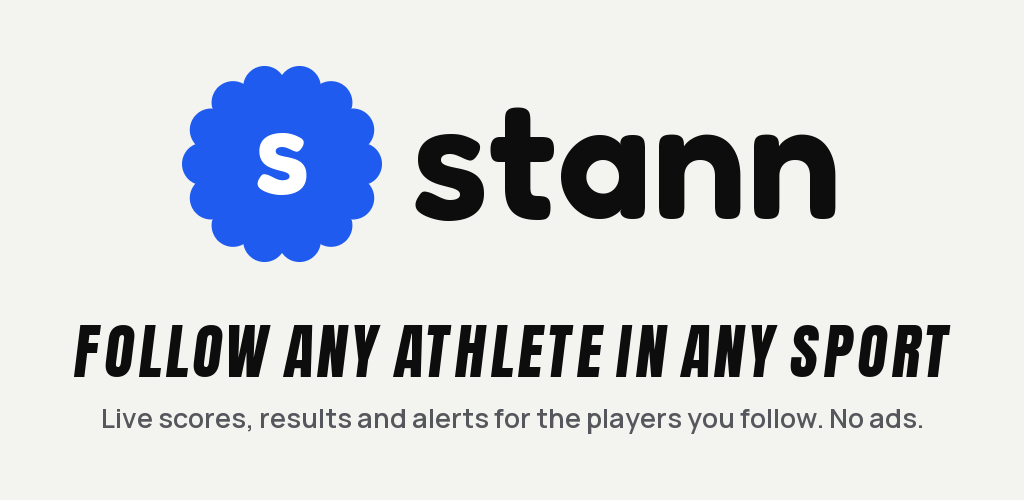
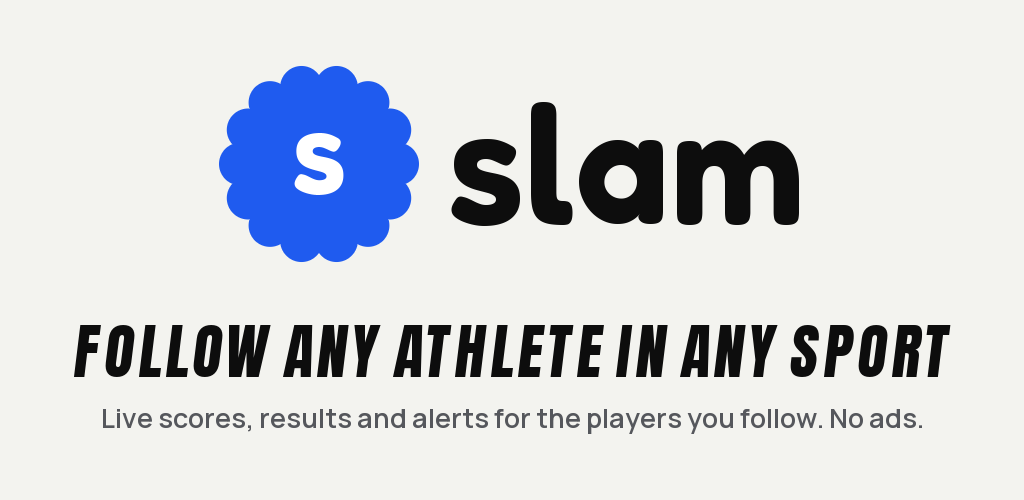
Google Play: the listing is for Slam, io.slam.app, and the upload key's variables name no app
The store name is "Slam: live alerts for players" (29 of Play's 30 characters), so search tells it apart from
SLAM Media's "SLAM.", WWE SLAM and the slambook apps; the description, the testers' group and message, and the
Console steps say Slam, and the Console's app (created as stann) takes the listing's name. The feature graphic
draws the name from sports_follow/app.json in the logo's lower case. The upload key's variables are
SPORTS_FOLLOW_UPLOAD_*, as the project's other settings are, so the next rename leaves them alone. The
addresses stay stann.in's until the new domain is bought.

Part of BHA-348
Part of BHA-294

Changed region(s): [[0.1562, 0.12, 0.8438, 0.54]]

diff --git a/mobile/plugins/with-upload-key.js b/mobile/plugins/with-upload-key.js
@@ -1,19 +1,20 @@
 // The Play upload key (store/release-build.md). Expo's template signs release builds with the debug key, and
 // android/ is generated (CLAUDE.md), so the change is made here at each prebuild: when the build has the key,
-// STANN_UPLOAD_KEYSTORE naming the keystore file (never in the repo: ~/.config/sports-follow/upload-key.jks),
-// STANN_UPLOAD_KEYSTORE_PASSWORD its password and STANN_UPLOAD_KEY_ALIAS its key ("upload" unless set, with the
-// keystore's password unless STANN_UPLOAD_KEY_PASSWORD gives another), a release build is signed with it.
+// SPORTS_FOLLOW_UPLOAD_KEYSTORE naming the keystore file (never in the repo:
+// ~/.config/sports-follow/upload-key.jks), SPORTS_FOLLOW_UPLOAD_KEYSTORE_PASSWORD its password and
+// SPORTS_FOLLOW_UPLOAD_KEY_ALIAS its key ("upload" unless set, with the keystore's password unless
+// SPORTS_FOLLOW_UPLOAD_KEY_PASSWORD gives another), a release build is signed with it.
 // Without it a release build stays on the debug key, as before, so `npm run android` and CI need nothing.
 const { withAppBuildGradle } = require('expo/config-plugins')
 
 const RELEASE_SIGNING = `        release {
             // The Play upload key, when the build has it (plugins/with-upload-key.js, store/release-build.md).
-            def uploadKeystore = System.getenv("STANN_UPLOAD_KEYSTORE")
+            def uploadKeystore = System.getenv("SPORTS_FOLLOW_UPLOAD_KEYSTORE")
             if (uploadKeystore) {
                 storeFile file(uploadKeystore)
-                storePassword System.getenv("STANN_UPLOAD_KEYSTORE_PASSWORD")
-                keyAlias System.getenv("STANN_UPLOAD_KEY_ALIAS") ?: "upload"
-                keyPassword System.getenv("STANN_UPLOAD_KEY_PASSWORD") ?: System.getenv("STANN_UPLOAD_KEYSTORE_PASSWORD")
+                storePassword System.getenv("SPORTS_FOLLOW_UPLOAD_KEYSTORE_PASSWORD")
+                keyAlias System.getenv("SPORTS_FOLLOW_UPLOAD_KEY_ALIAS") ?: "upload"
+                keyPassword System.getenv("SPORTS_FOLLOW_UPLOAD_KEY_PASSWORD") ?: System.getenv("SPORTS_FOLLOW_UPLOAD_KEYSTORE_PASSWORD")
             }
         }
 `
@@ -25,11 +26,11 @@ const RELEASE_ON_DEBUG_KEY = /(release \{\n(?:\s*\/\/.*\n)*\s+)signingConfig sig
 module.exports = (config) =>
   withAppBuildGradle(config, (mod) => {
     let gradle = mod.modResults.contents
-    if (!gradle.includes('STANN_UPLOAD_KEYSTORE')) {
+    if (!gradle.includes('SPORTS_FOLLOW_UPLOAD_KEYSTORE')) {
       if (!DEBUG_SIGNING.test(gradle)) throw new Error('with-upload-key: no signingConfigs.debug in android/app/build.gradle; Expo\'s template changed')
       if (!RELEASE_ON_DEBUG_KEY.test(gradle)) throw new Error('with-upload-key: the release build type is not on signingConfigs.debug; Expo\'s template changed')
       gradle = gradle.replace(DEBUG_SIGNING, (debug) => debug + RELEASE_SIGNING)
-      gradle = gradle.replace(RELEASE_ON_DEBUG_KEY, '$1signingConfig System.getenv("STANN_UPLOAD_KEYSTORE") ? signingConfigs.release : signingConfigs.debug\n')
+      gradle = gradle.replace(RELEASE_ON_DEBUG_KEY, '$1signingConfig System.getenv("SPORTS_FOLLOW_UPLOAD_KEYSTORE") ? signingConfigs.release : signingConfigs.debug\n')
       mod.modResults.contents = gradle
     }
     return mod

diff --git a/mobile/store/make_graphics.py b/mobile/store/make_graphics.py
@@ -1,9 +1,9 @@
 """Draw the Play Store's graphics from the app's own assets, and fit screenshots to Play's rules.
 
-- icon-512.png: the store icon, stann's badge on a full paper square (Play rounds the corners itself), a
+- icon-512.png: the store icon, the app's badge on a full paper square (Play rounds the corners itself), a
   32-bit PNG as Play asks, opaque. The same picture as web/public/icons/maskable-512.png, drawn by
   web/scripts/make_icons.py's rasterizer.
-- feature-1024x500.png: the feature graphic, the badge and "stann" (Fredoka, as in the header), the site's
+- feature-1024x500.png: the feature graphic, the badge and the name (Fredoka, lower case, as in the header), the site's
   one-line pitch in the leaning display type (Anton, the app's own slanted copy) and a line of Manrope.
   24-bit PNG with no alpha, as Play asks.
 - screenshots/: with --screenshots DIR, every PNG or JPEG in DIR made opaque and brought within Play's limit
@@ -15,13 +15,14 @@ Run from the repo root with its venv (Pillow is in requirements.txt), after `npm
 (the fonts come from node_modules/@expo-google-fonts):
 
     python mobile/store/make_graphics.py
-    python mobile/store/make_graphics.py --screenshots ~/Desktop/stann-shots
+    python mobile/store/make_graphics.py --screenshots ~/Desktop/slam-shots
 """
 
 from __future__ import annotations
 
 import argparse
 import io
+import json
 import sys
 from pathlib import Path
 
@@ -41,6 +42,8 @@ FREDOKA = FONTS / "fredoka" / "600SemiBold" / "Fredoka_600SemiBold.ttf"  # the l
 MANROPE = FONTS / "manrope" / "600SemiBold" / "Manrope_600SemiBold.ttf"  # body text
 ANTON_SLANTED = MOBILE / "assets" / "fonts" / "AntonSlanted.ttf"  # the display type's lean, as the app draws it
 
+# The name as the logo writes it: sports_follow/app.json's, in lower case (styles.css .brand).
+NAME = json.loads((ROOT / "sports_follow" / "app.json").read_text(encoding="utf-8"))["name"].lower()
 PITCH = "Follow any athlete in any sport"  # web/index.html's description, its first clause
 LINE = "Live scores, results and alerts for the players you follow. No ads."
 
@@ -77,16 +80,16 @@ def feature() -> Path:
     # Row 1: the badge and the name, as the header pairs them (.brand: the badge 1.2 times the type's size).
     name_font = ImageFont.truetype(str(FREDOKA), 168)
     mark = badge(200)
-    name_w = name_font.getlength("stann")
+    name_w = name_font.getlength(NAME)
     gap = 28
     row_w = mark.width + gap + name_w
     x = (width - row_w) / 2
     top = 64
     im.paste(mark, (round(x), top), mark)
     # Fredoka's x-height sits low in its box: align the word's visual middle with the badge's centre.
-    _, name_top, _, name_bottom = name_font.getbbox("stann")
+    _, name_top, _, name_bottom = name_font.getbbox(NAME)
     name_y = top + mark.height / 2 - (name_top + name_bottom) / 2
-    draw.text((x + mark.width + gap, name_y), "stann", font=name_font, fill=INK)
+    draw.text((x + mark.width + gap, name_y), NAME, font=name_font, fill=INK)
 
     # Row 2: the pitch, in the leaning display type, upper case as .dsp sets it.
     pitch_font = fitted(ANTON_SLANTED, PITCH.upper(), 60, width - 120)

diff --git a/mobile/store/release-build.md b/mobile/store/release-build.md
@@ -15,7 +15,7 @@ The keystore lives with the other local secrets, in `~/.config/sports-follow/`, 
 
 ```bash
 export JAVA_HOME=~/.local/jdk-17/Contents/Home
-"$JAVA_HOME/bin/keytool" -genkeypair -v -keystore ~/.config/sports-follow/upload-key.jks -alias upload -keyalg RSA -keysize 2048 -validity 10000 -dname "CN=stann, O=stann, C=IN"
+"$JAVA_HOME/bin/keytool" -genkeypair -v -keystore ~/.config/sports-follow/upload-key.jks -alias upload -keyalg RSA -keysize 2048 -validity 10000 -dname "CN=Slam, O=Slam, C=IN"
 ```
 
 It asks for a keystore password; use the same for the key (press Enter when it asks for the key's). Then:
@@ -41,7 +41,7 @@ Its fingerprint, for the server's App Links setting (`SPORTS_FOLLOW_ANDROID_CERT
    version fans should see, `version`. One place for each; nothing else to edit.
 2. **Build.** From `mobile/`, with the app's Firebase file (notifications). The config plugin
    `plugins/with-upload-key.js` writes a release signing config at prebuild that Gradle reads from the environment
-   when it runs: `STANN_UPLOAD_KEYSTORE` set, the upload key; unset, the debug key, as Expo's template leaves it.
+   when it runs: `SPORTS_FOLLOW_UPLOAD_KEYSTORE` set, the upload key; unset, the debug key, as Expo's template leaves it.
    The password goes to the Gradle command alone, not into the shell, so it isn't in the history or in a
    long-lived daemon's environment.
 
@@ -50,15 +50,15 @@ Its fingerprint, for the server's App Links setting (`SPORTS_FOLLOW_ANDROID_CERT
    export JAVA_HOME=~/.local/jdk-17/Contents/Home ANDROID_HOME=~/.local/android-sdk
    export GOOGLE_SERVICES_JSON=~/.config/sports-follow/google-services.json
    npx expo prebuild --platform android --clean
-   (cd android && STANN_UPLOAD_KEYSTORE=~/.config/sports-follow/upload-key.jks STANN_UPLOAD_KEYSTORE_PASSWORD="$(cat ~/.config/sports-follow/upload-key.password)" ./gradlew --no-daemon :app:bundleRelease)
+   (cd android && SPORTS_FOLLOW_UPLOAD_KEYSTORE=~/.config/sports-follow/upload-key.jks SPORTS_FOLLOW_UPLOAD_KEYSTORE_PASSWORD="$(cat ~/.config/sports-follow/upload-key.password)" ./gradlew --no-daemon :app:bundleRelease)
    ```
 
    The bundle is `mobile/android/app/build/outputs/bundle/release/app-release.aab`. `--clean` regenerates
    `android/` from `app.config.ts`, so the version, the plugin's signing and the App Links routes are the
    config's; `npm run android` afterwards is unaffected (debug builds keep the debug key).
 
-   Variables: `STANN_UPLOAD_KEY_ALIAS` if the key isn't `upload`; `STANN_UPLOAD_KEY_PASSWORD` if the key's
-   password differs from the keystore's.
+   Variables: `SPORTS_FOLLOW_UPLOAD_KEY_ALIAS` if the key isn't `upload`; `SPORTS_FOLLOW_UPLOAD_KEY_PASSWORD` if
+   the key's password differs from the keystore's.
 3. **Check it** before uploading: it's signed by the upload key, and it's the version you meant.
 
    ```bash
@@ -66,7 +66,7 @@ Its fingerprint, for the server's App Links setting (`SPORTS_FOLLOW_ANDROID_CERT
    "$JAVA_HOME/bin/keytool" -printcert -jarfile android/app/build/outputs/bundle/release/app-release.aab | grep SHA256
    ```
 
-   The second fingerprint must equal the keystore's (above). The debug key's would mean `STANN_UPLOAD_KEYSTORE`
+   The second fingerprint must equal the keystore's (above). The debug key's would mean `SPORTS_FOLLOW_UPLOAD_KEYSTORE`
    wasn't set on the Gradle command.
 4. **Upload** in Play Console, **Testing → Closed testing → (track) → Create new release**, drop the
    `.aab`, write a short release note, roll out. The first upload is where Play asks to turn on Play App

diff --git a/mobile/store/listing.md b/mobile/store/listing.md
@@ -8,7 +8,7 @@ in its voice: short, plain sentences, no claims the app doesn't keep.
 
 | Field | Value | Limit |
 |---|---|---|
-| App name | `stann` | 30 |
+| App name | `Slam: live alerts for players` | 30 (this is 29) |
 | Short description | `Follow any athlete, any sport: live scores, results and alerts for your players.` | 80 (this is exactly 80) |
 | Full description | below | 4,000 |
 | App category | Application → **Sports** | |
@@ -18,7 +18,13 @@ in its voice: short, plain sentences, no claims the app doesn't keep.
 | Privacy policy (App content) | `https://stann.in/privacy` | |
 | Account deletion (App content) | `https://stann.in/account` (sign in, then Delete account) | |
 
-Google shows the name and short description as typed: keep "stann" lower case, as fans see it everywhere.
+The app is Slam (`sports_follow/app.json`: the launcher, every page, the emails), so the store name starts with it
+and says what the app is, for search to tell it apart from the other SLAMs on Play: SLAM Media's basketball
+magazine app "SLAM.", WWE SLAM, Slam Stars, Slam Fitness and the slambook apps. "Slam: live alerts for your
+players" is 34 characters, over Play's 30. Google shows the name and short description as typed.
+
+The addresses are stann.in's until the new domain is bought (BHA-348). They can change in the Console at any
+time, unlike the package: change them here and there together.
 
 **Never the word "news"** in the name, either description, the tags or a What's new note. Bharath answered No
 to the News app declaration (19 Oct 2026), and Google rejects a listing that calls itself news while declaring
@@ -27,7 +33,7 @@ it isn't. Say alerts, moments, live scores, updates or follow instead.
 ## Full description
 
 ```
-stann follows the athletes you care about, in any sport: football, cricket, tennis, basketball, chess and esports. Pick a player and their games come to you.
+Slam follows the athletes you care about, in any sport: football, cricket, tennis, basketball, chess and esports. Pick a player and their games come to you.
 
 Your players first
 Today opens on your players' live games, then their results and what's coming up. Follow a team and its games come too. Follow one match for its moments alone, until it ends.
@@ -50,7 +56,7 @@ Everything works without an account. Sign in with an email code and your players
 No ads. No selling your data. Read the policy at stann.in/privacy.
 ```
 
-That text is 1,144 characters. Play keeps line breaks; it ignores Markdown, so the headings are plain lines.
+That text is 1,143 characters. Play keeps line breaks; it ignores Markdown, so the headings are plain lines.
 
 Before pasting, check the sports named in the first line against what production has turned on (the admin
 panel's sports, BHA-207 for PUBG): the listing must not promise a sport that's off. Esports titles are left

diff --git a/mobile/store/README.md b/mobile/store/README.md
@@ -1,6 +1,6 @@
 # Google Play: what the Console asks for
 
-Everything the first upload of the stann Android app (`io.stann.app`) needs, ready to paste or run, so the
+Everything the first upload of the Slam Android app (`io.slam.app`) needs, ready to paste or run, so the
 closed-testing release can go up the day the developer account is verified. Linear: BHA-8 (the epic), with
 BHA-25 (upload key), BHA-26 (the account), BHA-39 (the closed test) and BHA-168 (data safety) under it.
 
@@ -22,14 +22,15 @@ folder.
 Each step is Bharath's: the Console is his account.
 
 1. **Create the app**: done 19 Oct 2026 as `stann`, app, free (which Play never lets change), default language
-   English.
+   English. Its name is the store listing's, which can change until the app is published: make it
+   `listing.md`'s (BHA-348). The package isn't set until the first upload, which makes it `io.slam.app` for good.
 2. **Set up your app** (the Dashboard's checklist): privacy policy, app access, ads, content rating, target
    audience, news app, data safety (`data-safety.md`), government app, financial features, health, account
    deletion. `listing.md` has every answer.
 3. **Main store listing**: the text from `listing.md`, `icon-512.png`, `feature-1024x500.png`, the
    screenshots (`graphics.md`).
 4. **Upload key**, once (`release-build.md`), then the build, then **Testing → Closed testing**: a track
-   ("stann testers"), the `.aab`, the testers' Google Group (`closed-testing.md`), roll out. Google reviews
+   ("Slam testers"), the `.aab`, the testers' Google Group (`closed-testing.md`), roll out. Google reviews
    closed-testing releases too; a day or three.
 5. **Setup → App integrity**: copy the app signing key's SHA-256 into the server's
    `SPORTS_FOLLOW_ANDROID_CERT_SHA256` with the upload key's (App Links).

diff --git a/mobile/store/closed-testing.md b/mobile/store/closed-testing.md
@@ -33,7 +33,7 @@ Play App Signing and App Links working, which is the dress rehearsal (BHA-244) o
 ## Where the 12 testers come from
 
 Testers are Google accounts. Give Play either a list of email addresses or a Google Group; a **Google Group**
-is easier (`stann-testers@googlegroups.com`: add a person, they're a tester; Google counts opted-in members).
+is easier (`slam-testers@googlegroups.com`: add a person, they're a tester; Google counts opted-in members).
 
 - **Family and friends with Android phones**: the surest dozen. Ask for 15, since a few won't finish the opt-in.
 - **The people already testing the vivo builds** and anyone who has installed stann.in from Chrome.
@@ -51,14 +51,14 @@ counts as engagement.
 ## The message to send (WhatsApp)
 
 ```
-Hi! I've built an app called stann: follow any athlete, in any sport, and get an alert the moment they do something (a goal, a wicket, Gukesh winning). It's on stann.in today, and the Android app is going on the Play Store.
+Hi! I've built an app called Slam: follow any athlete, in any sport, and get an alert the moment they do something (a goal, a wicket, Gukesh winning). It's on stann.in today, and the Android app is going on the Play Store.
 
 Google needs 12 people to test it for two weeks before it can go public. Could you be one?
 
 It takes two minutes:
 1. Join the testers group: <group link>
 2. Open <opt-in link> and tap "Become a tester" (same Google account as your phone).
-3. Install stann from the Play link on that page.
+3. Install Slam from the Play link on that page.
 4. Keep it installed for two weeks, follow a player or two, and tell me anything that looks wrong.
 
 No ads, no selling data, and if you sign in you can delete everything from Account at any time. Thanks!

diff --git a/mobile/store/graphics.md b/mobile/store/graphics.md
@@ -14,7 +14,7 @@ comes from. `make_graphics.py` draws the first two from the app's own assets and
 
 ```bash
 python mobile/store/make_graphics.py                       # icon and feature graphic
-python mobile/store/make_graphics.py --screenshots ~/Desktop/stann-shots
+python mobile/store/make_graphics.py --screenshots ~/Desktop/slam-shots
 ```
 
 (From the repo root with its venv; Pillow is in `requirements.txt`. The fonts come from
@@ -32,14 +32,14 @@ Gukesh, Salah and one esports player cover four sports' colours.
 export JAVA_HOME=~/.local/jdk-17/Contents/Home ANDROID_HOME=~/.local/android-sdk
 ~/.local/android-sdk/emulator/emulator -avd stann_pixel &
 cd mobile && npm run android                               # a debug build; the pages are the same
-~/.local/android-sdk/platform-tools/adb exec-out screencap -p > ~/Desktop/stann-shots/1-today.png
+~/.local/android-sdk/platform-tools/adb exec-out screencap -p > ~/Desktop/slam-shots/1-today.png
 ```
 
 Take them in this order, on a day with a live game if possible (a live board is the best first picture):
 
 1. **Today**, with a live game of a followed player on top, then the results rail (`1-today.png`).
 2. **A player's page** with the live board or last result and their line (`2-player.png`).
-3. **An alert**: pull down the notification shade with a stann moment card opened (Alerts' Settings has
+3. **An alert**: pull down the notification shade with a moment card opened (Alerts' Settings has
    "Send a test alert"; a real one looks better) (`3-alert.png`).
 4. **The lock screen with a live card**, from a followed game that's on (`4-lockscreen.png`).
 5. **Search** with results across sports for a name like "Rohit" (`5-search.png`).

diff --git a/README.md b/README.md
@@ -992,7 +992,8 @@ npm run typecheck                                   # what CI checks
 **Google Play.** `mobile/store/` holds what the Play Console asks for (the listing, graphics, the data
 safety form, the closed-testing plan) and `release-build.md`, the signed `.aab`: an upload key in
 `~/.config/sports-follow/`, never in the repo, that `mobile/plugins/with-upload-key.js` puts on the release
-build when `STANN_UPLOAD_KEYSTORE` names it; `versionCode` in `mobile/app.config.ts` goes up for every upload.
+build when `SPORTS_FOLLOW_UPLOAD_KEYSTORE` names it; `versionCode` in `mobile/app.config.ts` goes up for every
+upload.
 
 **Notifications** come through Firebase Cloud Messaging, planned as the web's are (one notification a
 game, replaced as its moments come; sound only for a key moment outside quiet hours). The server sends
